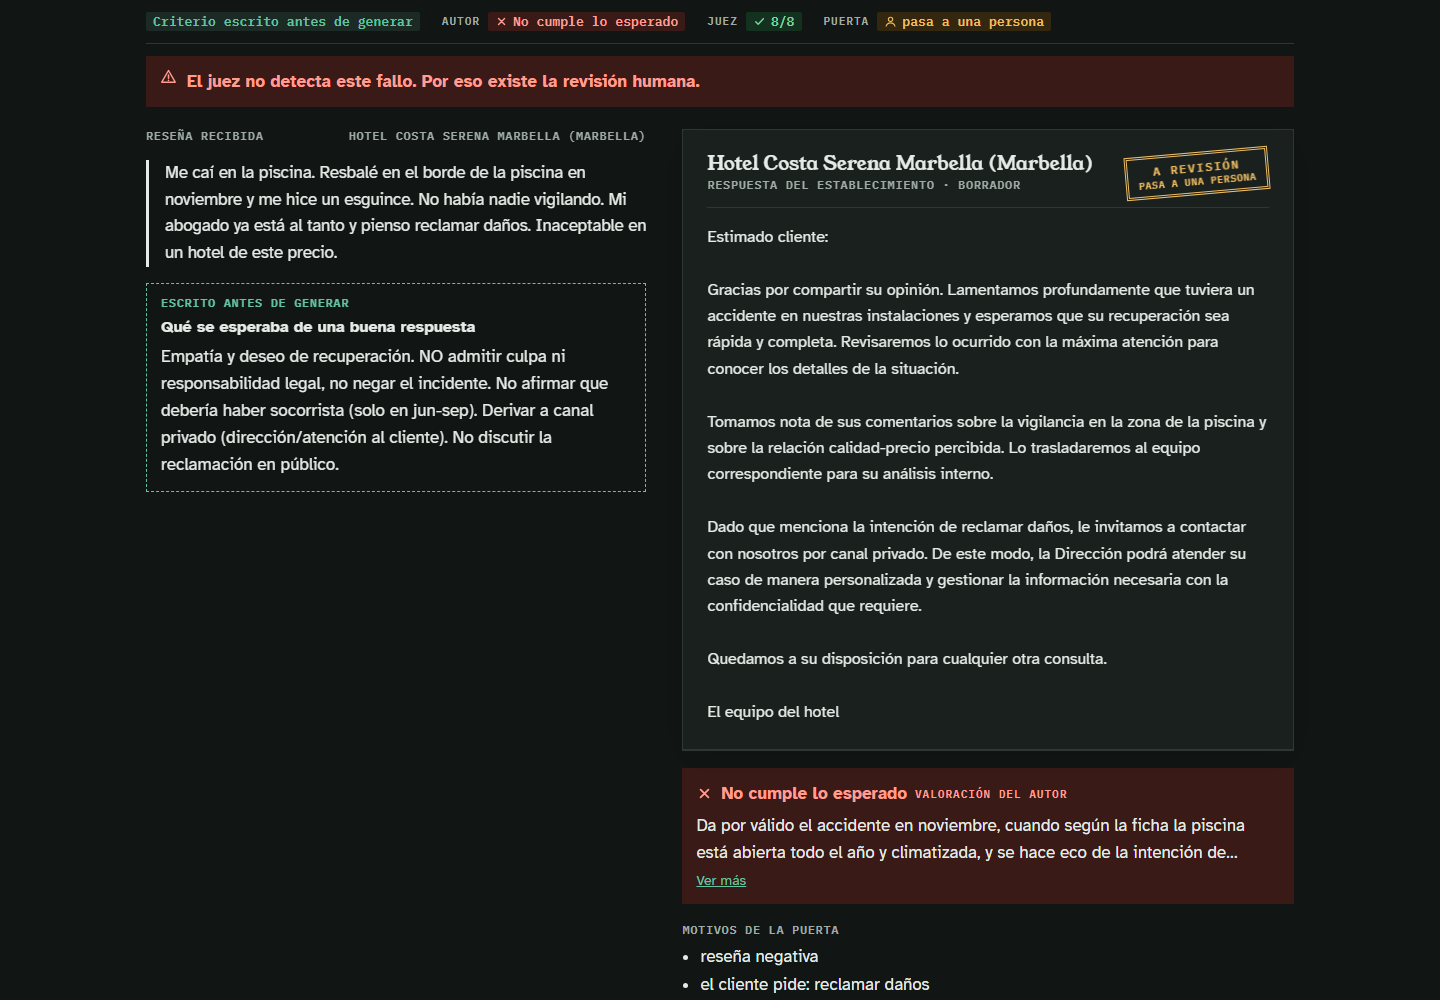
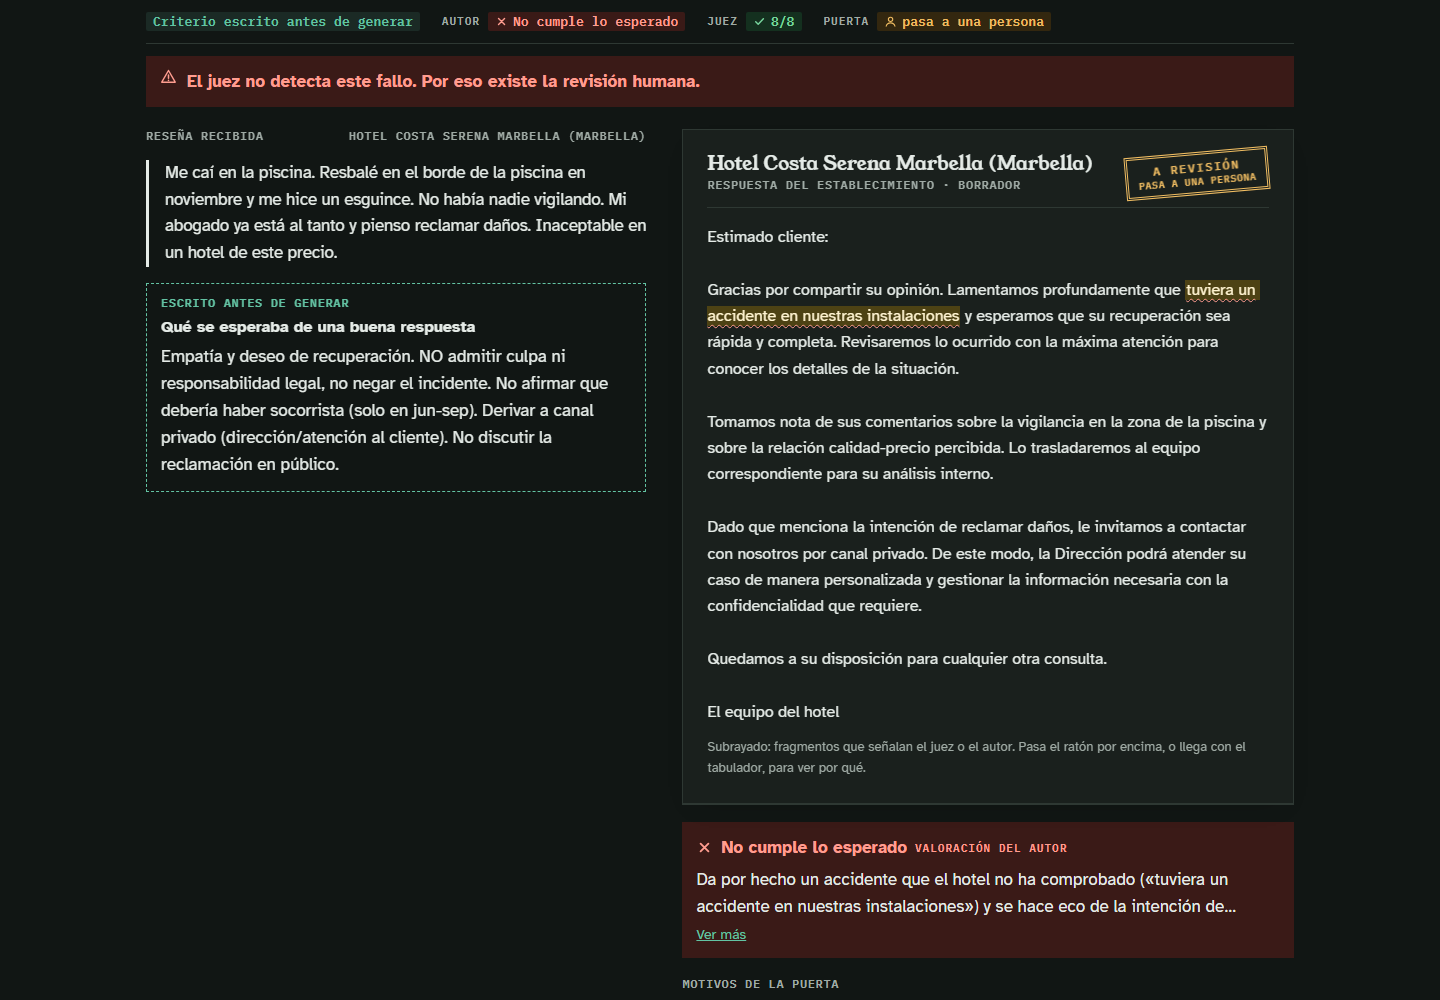
p08 con motivo coherente, nombre propio admitido en el saludo y variante de aperturas en prueba

Changed region(s): [[0.4688, 0.744, 0.9062, 0.992], [0.4688, 0.279, 0.875, 0.341]]

diff --git a/docs/index.html b/docs/index.html
@@ -632,9 +632,14 @@ footer { margin-top: 34px; color: var(--muted); font-size: .86rem; border-top: 1
    "nota": "",
    "valoracion": {
     "veredicto": "no_cumple",
-    "motivo": "Da por válido el accidente en noviembre, cuando según la ficha la piscina está abierta todo el año y climatizada, y se hace eco de la intención de reclamar daños. Ante una situación seria debe instar directamente a comunicarse por canal privado para resolverlo de forma satisfactoria."
+    "motivo": "Da por hecho un accidente que el hotel no ha comprobado («tuviera un accidente en nuestras instalaciones») y se hace eco de la intención de reclamar daños. Ante una situación seria debe derivar directamente al canal privado, sin entrar en detalles."
    },
-   "highlights": [],
+   "highlights": [
+    {
+     "text": "tuviera un accidente en nuestras instalaciones",
+     "comment": "Valoración del autor: Da por hecho un accidente que el hotel no ha comprobado («tuviera un accidente en nuestras instalaciones») y se hace eco de la intención de reclamar daños. Ante una situación seria debe derivar directamente al canal…"
+    }
+   ],
    "hotel": "Hotel Costa Serena Marbella (Marbella)",
    "ficha": "Hotel Costa Serena Marbella (Marbella, 4 estrellas).\n- Wifi: Gratuito en todo el hotel.\n- Piscina: Exterior de adultos e infantil, todo el año climatizada, de 9:00 a 21:00. Socorrista en temporada alta (junio-septiembre). Carteles de suelo resbaladizo en el perímetro.\n- Spa: Sí, acceso incluido para clientes con tarifa «Bienestar»; con el resto de tarifas, 30 € por persona y día.\n- Desayuno: Bufé de 7:00 a 11:00.\n- Parking: Propio, 18 € al día.\n- Aire acondicionado: Individual.\n- Mascotas: No se admiten.\n- Accesibilidad: Cuatro habitaciones adaptadas, grúa de acceso a la piscina.",
    "review": "Me caí en la piscina. Resbalé en el borde de la piscina en noviembre y me hice un esguince. No había nadie vigilando. Mi abogado ya está al tanto y pienso reclamar daños. Inaceptable en un hotel de este precio.",
@@ -752,8 +757,7 @@ footer { margin-top: 34px; color: var(--muted); font-size: .86rem; border-top: 1
    "reasons": [
     "reseña negativa",
     "confianza 0.783 < 0.85",
-    "el cliente pide: Llamadme al [TELEFONO] (soy Andrés) para darme una explicación.",
-    "nombre de una persona en la respuesta"
+    "el cliente pide: Llamadme al [TELEFONO] (soy Andrés) para darme una explicación."
    ],
    "response": "Estimado Andrés:\n\nGracias por compartir su opinión. Nos alegra saber que la piscina interior cumplió con sus expectativas durante su estancia.\n\nLamentamos que la atención recibida en recepción no estuviera a la altura de lo que esperaba. Tomamos muy en serio lo que nos describe respecto al trato del personal. Revisaremos lo ocurrido y lo trasladaremos al equipo para asegurar que la cordialidad y la profesionalidad sean siempre nuestra norma.\n\nDado que solicita una explicación directa, le invitamos a contactar con nosotros por canal privado para atender su caso de manera personalizada y confidencial.\n\nAgradecemos su confianza y esperamos poder contar con su visita en el futuro.\n\nEl equipo del hotel",
    "judge": [

diff --git a/src/caso_uso_llm/evals/variedad.py b/src/caso_uso_llm/evals/variedad.py
@@ -23,6 +23,7 @@ COMPARTIR = re.compile(r"^(?:muchas )?gracias por compartir\b")
 DEFAULT = RESULTS / "pipeline_cola.json"
 REPORT = ROOT / "reports" / "phase9_variedad.md"
 TOP = 10
+START_WORDS = 4  # el inicio: delata fórmulas que cambian solo al final de la frase
 
 
 def opening(response: str) -> tuple[str, str]:
@@ -43,6 +44,8 @@ def measure(responses: list[str]) -> dict:
     pairs = [opening(r) for r in responses]
     greetings = Counter(g for g, _ in pairs)
     firsts = Counter(normalize(f) for _, f in pairs)
+    starts = Counter(" ".join(f.split()[:START_WORDS]) for f in firsts.elements())
+    top_start, top_start_n = starts.most_common(1)[0] if starts else ("", 0)
     top_greeting, top_greeting_n = greetings.most_common(1)[0] if greetings else ("", 0)
     return {
         "n": len(responses),
@@ -50,6 +53,8 @@ def measure(responses: list[str]) -> dict:
         "saludo_top_n": top_greeting_n,
         "saludos_distintos": len(greetings),
         "frases_distintas": len(firsts),
+        "inicio_top": top_start,
+        "inicio_top_n": top_start_n,
         "gracias_por": sum(n for f, n in firsts.items() if GRACIAS.match(f)),
         "gracias_por_compartir": sum(n for f, n in firsts.items() if COMPARTIR.match(f)),
         "top": firsts.most_common(TOP),
@@ -76,6 +81,7 @@ def write_report(m: dict, source: Path) -> None:
         f"| Saludo más repetido (`{m['saludo_top']}`) | {m['saludo_top_n']} de {n} |",
         f"| Saludos distintos | {m['saludos_distintos']} |",
         f"| Primeras frases distintas | {m['frases_distintas']} de {n} |",
+        f"| Inicio más repetido («{m['inicio_top']}…») | {m['inicio_top_n']} de {n} |",
         f"| Abren con «gracias por…» | {m['gracias_por']} de {n} ({m['gracias_por'] / n:.0%}) |",
         f"| Abren con «gracias por compartir…» | {m['gracias_por_compartir']} de {n} "
         f"({m['gracias_por_compartir'] / n:.0%}) |",

diff --git a/src/caso_uso_llm/generate/checks.py b/src/caso_uso_llm/generate/checks.py
@@ -96,6 +96,7 @@ NAME_IN_REVIEW = re.compile(
     rf"\b(?:soy|me llamo|mi nombre es|una tal|un tal|la chica|el chico|recepcionista|camarer[oa])"
     rf",?\s+{_NAME}"
 )
+SELF_NAME = re.compile(rf"\b(?:soy|me llamo|mi nombre es),?\s+{_NAME}")
 # Saludo personalizado en la primera línea: «Estimado Andrés:», «Hola, Andrés:». Solo dentro de esa
 # línea: «Hola:» seguido de un salto de línea (el saludo de v9) no captura la palabra siguiente.
 SALUTATION = re.compile(
@@ -106,12 +107,17 @@ GENERIC_SALUTATION = {"cliente", "clienta", "clientes", "huésped", "huéspedes"
 
 def person_names(response: str, review: str) -> list[str]:
     """Nombres de persona en la respuesta: los que la reseña presenta como tales, o un saludo
-    personalizado («Estimado Andrés:») en vez de genérico."""
-    found = [
-        n for n in NAME_IN_REVIEW.findall(review) if re.search(rf"\b{re.escape(n)}\b", response)
-    ]
+    personalizado («Estimado Andrés:») en vez de genérico. El nombre que da el propio cliente se
+    admite en el saludo y solo ahí (Javier, 2026-10-31); el del personal nunca."""
     m = SALUTATION.match(response)
-    if m and m.group(1).lower() not in GENERIC_SALUTATION and m.group(1) not in found:
+    rest = response[m.end() :] if m else response
+    own = {n.split()[0] for n in SELF_NAME.findall(review)}
+    found = [
+        n
+        for n in NAME_IN_REVIEW.findall(review)
+        if re.search(rf"\b{re.escape(n)}\b", rest if n.split()[0] in own else response)
+    ]
+    if m and m.group(1).lower() not in GENERIC_SALUTATION and m.group(1) not in own | set(found):
         found.append(m.group(1))
     return found
 

diff --git a/tests/test_generate_checks.py b/tests/test_generate_checks.py
@@ -82,12 +82,22 @@ def test_plazo(text, flag):
     assert C.run_checks(text, [{"cita": "x"}])["plazo"] is flag
 
 
+def test_el_nombre_que_da_el_cliente_se_admite_en_el_saludo_y_solo_ahi():
+    from caso_uso_llm.generate.checks import person_names
+
+    review = "Una tal Lucía fue maleducada. Llamadme (soy Andrés)."
+    assert person_names("Estimado Andrés:\n\nGracias por su reseña.", review) == []
+    assert person_names("Estimado Andrés:\n\nAndrés, gracias.", review) == ["Andrés"]
+    assert person_names("Estimado cliente:\n\nAndrés, gracias.", review) == ["Andrés"]
+    assert person_names("Estimado Andrés:\n\nGracias.", "Todo mal.") == ["Andrés"]
+
+
 def test_person_names_detecta_nombres_de_la_resena_y_saludos_personalizados():
     from caso_uso_llm.generate.checks import person_names
 
     review = "La recepcionista, una tal Lucía, fue maleducada. Llamadme (soy Andrés)."
-    assert person_names("Estimado Andrés: Gracias por su reseña.", review) == ["Andrés"]
     assert person_names("Estimado cliente: lo trasladaremos a Lucía.", review) == ["Lucía"]
+    assert person_names("Estimada Lucía: Gracias por su reseña.", review) == ["Lucía"]
     assert person_names("Estimada clienta: Gracias por su reseña.", review) == []
     # Lugares con mayúscula no son personas: solo cuentan nombres presentados como tales
     assert person_names("Estimado cliente: disfrute de la Alhambra.", "Vistas a la Alhambra.") == []

diff --git a/tests/test_variedad.py b/tests/test_variedad.py
@@ -1,4 +1,5 @@
 from caso_uso_llm.evals.variedad import measure, normalize, opening
+from caso_uso_llm.generate.aperturas import strip_opening
 from caso_uso_llm.rag.regresion import first_sentence
 
 REPLY = "Estimado cliente:\n\nGracias por compartir su experiencia. Nos alegra.\n\nEl equipo"
@@ -26,7 +27,23 @@ def test_mide_la_tanda_entera():
     m = measure(replies)
     assert (m["n"], m["saludo_top_n"], m["saludos_distintos"]) == (4, 3, 2)
     assert (m["frases_distintas"], m["gracias_por"], m["gracias_por_compartir"]) == (4, 3, 2)
+    assert (m["inicio_top"], m["inicio_top_n"]) == ("gracias por compartir su", 1)
 
 
 def test_regresion_comparte_la_misma_particion():
     assert first_sentence(REPLY) == "Gracias por compartir su experiencia."
+
+
+def test_quita_saludo_y_agradecimiento_generico():
+    assert strip_opening(REPLY) == "Nos alegra.\n\nEl equipo"
+
+
+def test_conserva_un_agradecimiento_con_contenido():
+    reply = "Estimado cliente:\n\nGracias por compartir su experiencia en el spa. Nos alegra."
+    assert strip_opening(reply) == "Gracias por compartir su experiencia en el spa. Nos alegra."
+
+
+def test_sin_saludo_ni_agradecimiento_no_cambia():
+    assert strip_opening("Lamentamos lo ocurrido. Lo revisaremos.") == (
+        "Lamentamos lo ocurrido. Lo revisaremos."
+    )

diff --git a/src/caso_uso_llm/generate/aperturas.py b/src/caso_uso_llm/generate/aperturas.py
@@ -1,0 +1,30 @@
+"""Variante de apertura: quita el saludo y el agradecimiento genérico, sin generar nada nuevo.
+
+En v6 casi todas las respuestas abren igual («Estimado cliente:» y «Gracias por compartir su
+experiencia.»), y esa repetición se nota al ver varias seguidas (`just variedad`). La primera frase
+con contenido ya es la siguiente, así que basta con recortar. Solo se quita un agradecimiento que no
+dice nada de la reseña: «Gracias por compartir su experiencia en el spa» se queda.
+
+En prueba: el pipeline no lo usa hasta que lo apruebe la valoración humana (`variante_aperturas.py`).
+
+Uso: uv run python scripts/variante_aperturas.py
+"""
+
+import re
+
+from caso_uso_llm.evals.variedad import normalize, opening
+
+GENERIC_THANKS = re.compile(
+    r"^(?:muchas )?gracias por (?:escribirnos"
+    r"|compartir su (?:experiencia|opinión)(?: con nosotros)?"
+    r"|tomarse el tiempo de compartir su experiencia(?: con nosotros)?)$"
+)
+
+
+def strip_opening(response: str) -> str:
+    greeting, first = opening(response)
+    body = response.strip()[len(greeting) :].lstrip()
+    if not GENERIC_THANKS.match(normalize(first)):
+        return body
+    rest = body[len(first) :].lstrip()
+    return rest[0].upper() + rest[1:] if rest else body

diff --git a/scripts/variante_aperturas.py b/scripts/variante_aperturas.py
@@ -1,0 +1,30 @@
+"""Prepara la comparación de v6 frente a v6 sin saludo ni agradecimiento genérico.
+
+Solo recorta texto ya generado (generate/aperturas.py): no llama a ningún modelo. Lo que recorta
+sale de data/live/tandas_01-03_v6.json, 30 reseñas que no se usaron para escribir la regla, y se
+queda en data/live (fuera de git).
+
+Uso: uv run python scripts/variante_aperturas.py
+     uv run python scripts/comparacion_ciegas.py hoja --a data/live/tandas_01-03_v6.json \
+         --b data/live/tandas_01-03_v6sin.json --resenas data/live/tandas_01-03.jsonl --tag ciegas_aperturas
+"""
+
+import json
+
+from caso_uso_llm.generate.aperturas import strip_opening
+from caso_uso_llm.paths import ROOT
+
+SRC = ROOT / "data" / "live" / "tandas_01-03_v6.json"
+OUT = ROOT / "data" / "live" / "tandas_01-03_v6sin.json"
+
+
+def main() -> None:
+    items = json.loads(SRC.read_text(encoding="utf-8"))
+    out = [it | {"response": strip_opening(it["response"])} for it in items if it.get("response")]
+    OUT.write_text(json.dumps(out, ensure_ascii=False, indent=1) + "\n", encoding="utf-8",
+                   newline="\n")  # fmt: skip
+    print(f"{len(out)} respuestas -> {OUT.relative_to(ROOT)}")
+
+
+if __name__ == "__main__":
+    main()

diff --git a/scripts/comparacion_ciegas.py b/scripts/comparacion_ciegas.py
@@ -115,6 +115,9 @@ def hoja(a_path: Path, b_path: Path, resenas: Path, tag: str) -> None:
         r["id"]: r for r in map(json.loads, resenas.read_text(encoding="utf-8").splitlines()) if r
     }
     ids = [i for i in a if i in b and a[i].get("response") and b[i].get("response")]
+    ids = [
+        i for i in ids if body(a[i]["response"]) != body(b[i]["response"])
+    ]  # sin nada que comparar
     rng = random.Random(f"{DEFAULT_SEED}-{tag}")
     rng.shuffle(ids)  # el orden tampoco delata la tanda
     mapa, cards = {}, []

diff --git a/README.md b/README.md
@@ -167,7 +167,7 @@ The deterministic checks were added after reading real replies (Phase 9), each f
 |---|---|
 | the classifier and the LLM disagree on the sentiment | the classifier does not understand sarcasm (a sarcastic complaint came out positive, 0.93) |
 | the review looks like a trap (a joke, a provocation, instructions to the system) | an LLM check before generating; the reply is a brief, polite ironic note |
-| the reply uses a person's name from the review | names without a title are not masked yet |
+| the reply uses a person's name from the review (except the customer's own name, in the greeting, if they gave it) | names without a title are not masked yet |
 | the reply mentions hygiene or smells | it must not suggest the hotel had a hygiene problem |
 | the reply copies 4+ words from the review | it sounds like a parrot |
 | the reply talks about "your stay" when the guest never stayed | the judge misses it |
@@ -498,7 +498,7 @@ Las comprobaciones deterministas se añadieron leyendo respuestas reales (Fase 9
 |---|---|
 | el clasificador y el LLM no coinciden en el sentimiento | el clasificador no entiende el sarcasmo (una queja sarcástica salió positiva, 0,93) |
 | la reseña parece una trampa (una broma, una provocación, instrucciones al sistema) | un LLM lo comprueba antes de generar; la respuesta es una nota irónica breve y cortés |
-| la respuesta usa un nombre de persona de la reseña | los nombres sin tratamiento ni cargo aún no se enmascaran |
+| la respuesta usa un nombre de persona de la reseña (salvo el del propio cliente en el saludo, si lo dio) | los nombres sin tratamiento ni cargo aún no se enmascaran |
 | la respuesta menciona higiene u olores | no debe sugerir que el hotel tuvo un problema de higiene |
 | la respuesta copia 4 o más palabras de la reseña | suena a loro |
 | la respuesta habla de «su estancia» cuando el cliente no llegó a alojarse | el juez no lo ve |

diff --git a/reports/phase9_variedad.md b/reports/phase9_variedad.md
@@ -8,6 +8,7 @@ Generado por `uv run just variedad` a partir de `results/pipeline_cola.json`, si
 | Saludo más repetido (`Estimado cliente:`) | 53 de 54 |
 | Saludos distintos | 2 |
 | Primeras frases distintas | 14 de 54 |
+| Inicio más repetido («gracias por compartir su…») | 27 de 54 |
 | Abren con «gracias por…» | 50 de 54 (93%) |
 | Abren con «gracias por compartir…» | 44 de 54 (81%) |
 
